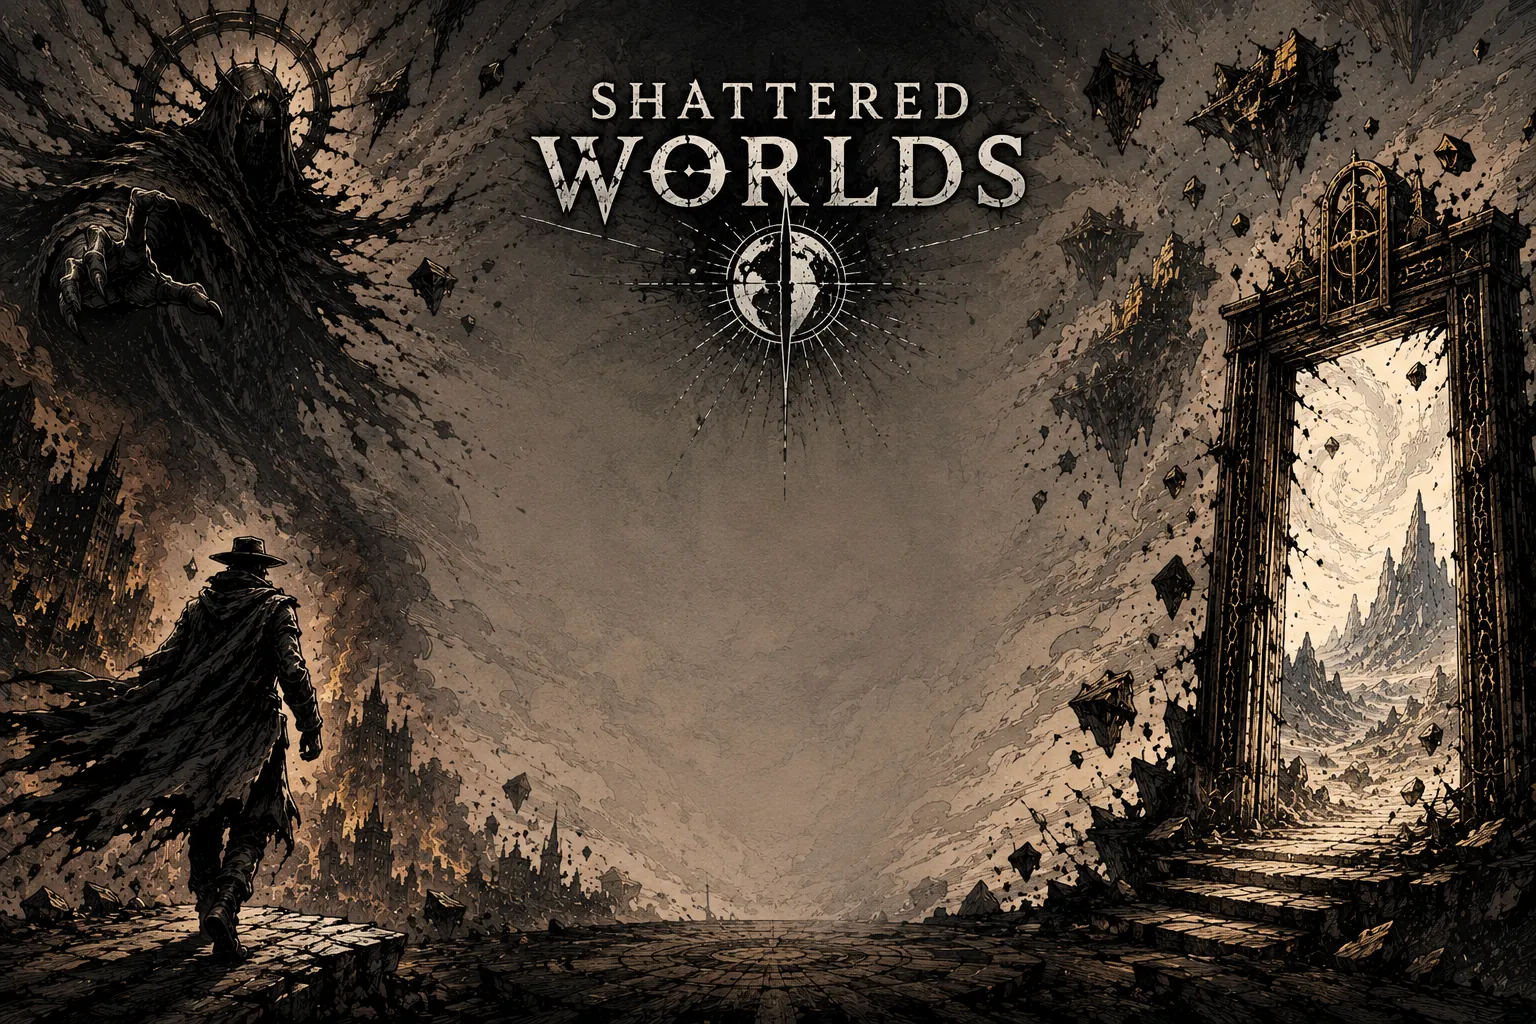
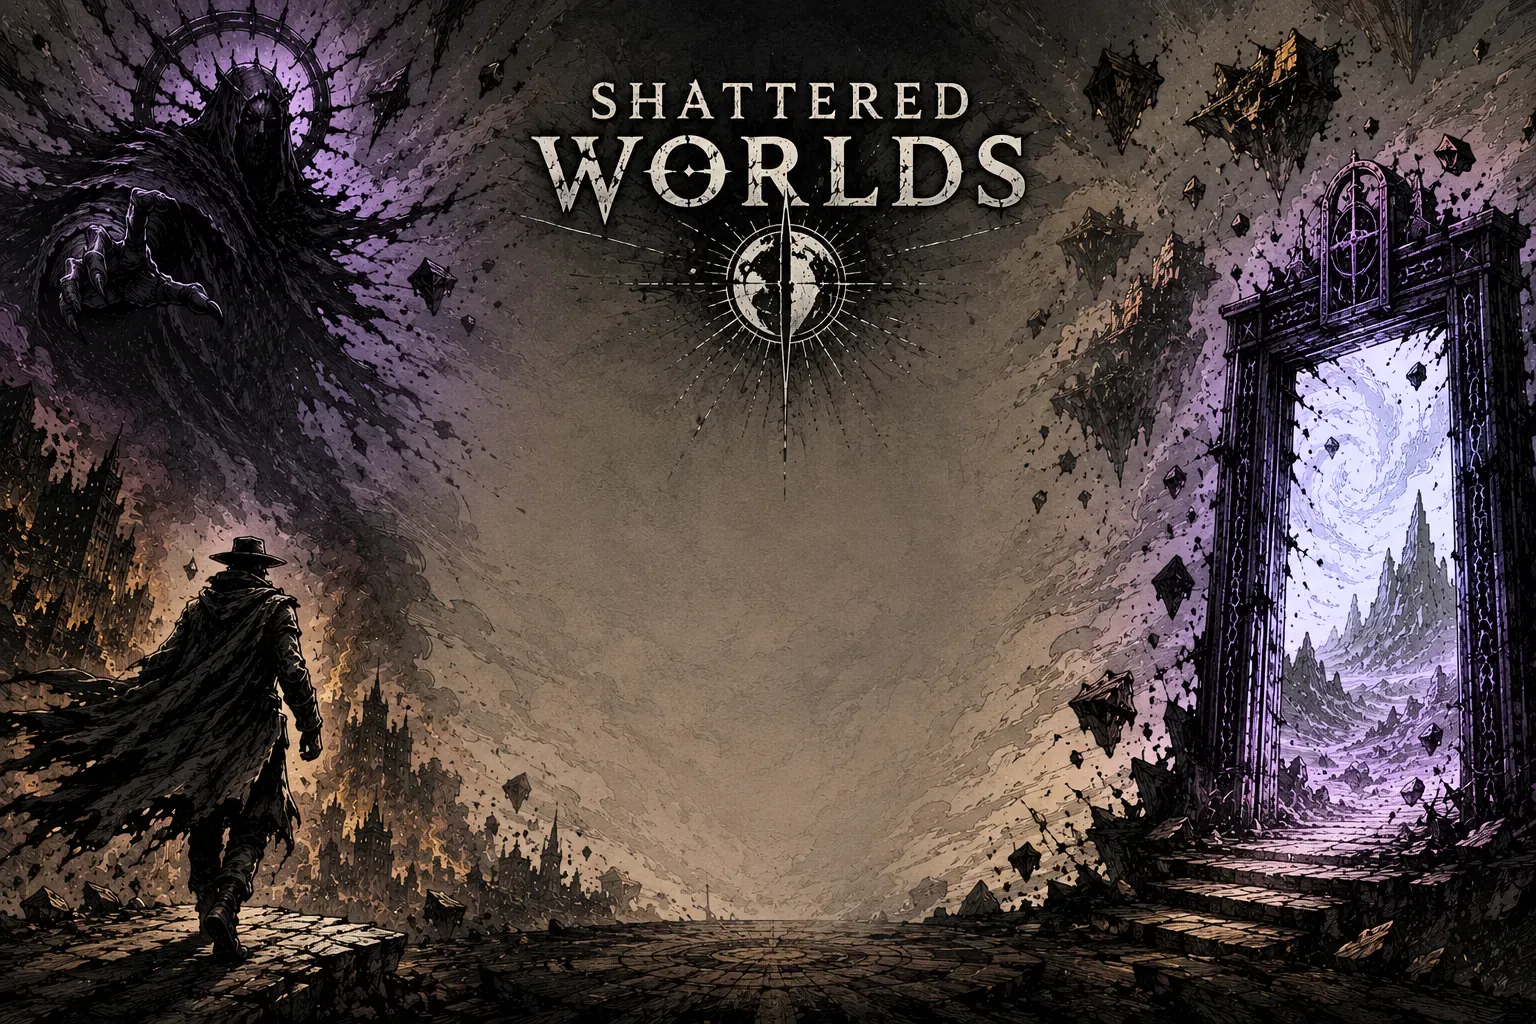
Refactor text styles: Replace hardcoded color values with TEXT constants across multiple components for consistency and maintainability.

diff --git a/src/game/view/presentation.ts b/src/game/view/presentation.ts
@@ -20,6 +20,41 @@ import type { HighlightKind } from '../interaction/highlight'
 export { CANVAS_W, CANVAS_H } from './layout'
 
 // ---------------------------------------------------------------------------
+// Text palette
+// ---------------------------------------------------------------------------
+
+// Text colors are theme-independent — all pass WCAG AA against the frame
+// backgrounds used by every current theme.
+export const TEXT = {
+  textLight: '#e8eaf0',
+  textMuted: '#b6c0d1',
+  textCost: '#ffcc44',
+  textKeyword: '#88ccff',
+  textDisabled: '#555577',
+  textPenalty: '#ff8888',
+  textReward: '#88ee88',
+  textHeld: '#ffaa66',
+  textDiscard: '#ffaa44',
+  textEnergy: '#ffeebb',
+  bgEnergy: 0x002244,
+  textHp: '#ff8888',
+  dimAlpha: 0.35,
+  textWorldTitle: '#d4c8e0',
+  textWorldTag: '#c178bc',
+  textWorldStory: '#b69fc7',
+  background: '#24221e',
+}
+
+export function getRealityPalette(
+  theme: VisualTheme,
+  index: keyof VisualTheme['realityPalette'],
+  defaultColor: string
+): string {
+  return theme.realityPalette[index] ?? defaultColor
+}
+
+
+// ---------------------------------------------------------------------------
 // Card texture selection
 // ---------------------------------------------------------------------------
 
@@ -44,26 +79,6 @@ export function selectCardFrontKey(
   // (generic) until per-player-world art ships.
   const theme = resolveTheme(card.sourceWorldId) // seam: use result when per-player-world art is defined
   return theme.worldCardfrontKey ?? 'cardfront'
-}
-
-// ---------------------------------------------------------------------------
-// Text palette
-// ---------------------------------------------------------------------------
-
-// Text colors are theme-independent — all pass WCAG AA against the frame
-// backgrounds used by every current theme.
-export const TEXT = {
-  textLight: '#e8eaf0',
-  textMuted: '#b6c0d1',
-  textCost: '#ffcc44',
-  textKeyword: '#88ccff',
-  textPenalty: '#ff8888',
-  textReward: '#88ee88',
-  textHeld: '#ffaa66',
-  textEnergy: '#ffeebb',
-  bgEnergy: 0x002244,
-  textHp: '#ff8888',
-  dimAlpha: 0.35,
 }
 
 // ---------------------------------------------------------------------------

diff --git a/src/game/scenes/TableScene.ts b/src/game/scenes/TableScene.ts
@@ -178,7 +178,7 @@ export class TableScene extends Phaser.Scene {
 
     const endTurnStyle = textStyle({
       fontSize: '16px',
-      color: getRealityPalette(this.theme_, 'text', '#88aaff'),
+      color: getRealityPalette(this.theme_, 'text', TEXT.textKeyword),
       fontStyle: 'bold',
     })
     this.endTurnBtn = new CommonButton(
@@ -192,7 +192,7 @@ export class TableScene extends Phaser.Scene {
 
     const cancelStyle = textStyle({
       fontSize: '13px',
-      color: getRealityPalette(this.theme_, 'cancel', '#ff8888'),
+      color: getRealityPalette(this.theme_, 'cancel', TEXT.textPenalty),
     })
     this.cancelBtn = new CommonButton(
       this,
@@ -212,7 +212,7 @@ export class TableScene extends Phaser.Scene {
     const confirmStyle = textStyle({
       fontSize: '13px',
       fontStyle: 'bold',
-      color: getRealityPalette(this.theme_, 'confirm', '#88ee88'),
+      color: getRealityPalette(this.theme_, 'confirm', TEXT.textReward),
     })
     this.confirmBtn = new CommonButton(
       this,
@@ -226,13 +226,13 @@ export class TableScene extends Phaser.Scene {
 
     this.winScreen = new EndScreenView(this, {
       title: 'YOU WIN',
-      titleColor: '#88ee88',
+      titleColor: TEXT.textReward,
       subtitle: 'You survived.',
     })
 
     this.lossScreen = new EndScreenView(this, {
       title: 'YOU LOSE',
-      titleColor: '#ff8888',
+      titleColor: TEXT.textPenalty,
       subtitle: 'You did not survive meeting the Walker.',
     })
 
@@ -262,7 +262,7 @@ export class TableScene extends Phaser.Scene {
 
     this.selectionHint = new CommonLabel(this, TABLE_LAYOUT.selectionHint.x, TABLE_LAYOUT.selectionHint.y, '', textStyle({
       fontSize: '12px',
-      color: getRealityPalette(this.theme_, 'text', '#9aa3b2'),
+      color: getRealityPalette(this.theme_, 'text', TEXT.textLight),
     })).setVisible(false)
 
     // Sits in a dedicated slot directly above selectionHint. selectionHint has
@@ -272,7 +272,7 @@ export class TableScene extends Phaser.Scene {
     // means this slot simply stays empty).
     this.previewSlot = new CommonLabel(this, TABLE_LAYOUT.previewSlot.x, TABLE_LAYOUT.previewSlot.y, '', textStyle({
       fontSize: '12px',
-      color: getRealityPalette(this.theme_, 'title', '#9aa3b2'),
+      color: getRealityPalette(this.theme_, 'title', TEXT.textLight),
     }))
     this.previewSlot.setVisible(false)
 

diff --git a/src/game/view/ModalChooserView.ts b/src/game/view/ModalChooserView.ts
@@ -6,7 +6,8 @@
 import Phaser from 'phaser'
 import { getRealityPalette } from './themes/theme'
 import type { VisualTheme } from './themes/theme'
-import { textStyle } from './presentation'
+import { textStyle, TEXT } from './presentation'
+import { TABLE_LAYOUT } from './layout'
 import { BranchLabel } from '../../core/view/branchLabels'
 
 export class ModalChooserView extends Phaser.GameObjects.Container {
@@ -19,6 +20,7 @@ export class ModalChooserView extends Phaser.GameObjects.Container {
   ) {
     super(scene, 450, 300)
     scene.add.existing(this)
+    this.setDepth(TABLE_LAYOUT.modalDepth)
 
     const bg = scene.add
       .nineslice(0, 0, 'text-back', undefined, 480, 240, 32, 32, 16, 16)
@@ -27,7 +29,7 @@ export class ModalChooserView extends Phaser.GameObjects.Container {
 
     const title = scene.add.text(0, -80, 'Choose an effect:', textStyle({
       fontSize: '16px',
-      color: getRealityPalette(theme, 'title', '#9aa3b2'),
+      color: getRealityPalette(theme, 'title', TEXT.textLight),
       fontStyle: 'bold',
     }))
     title.setOrigin(0.5, 0.5)
@@ -37,8 +39,8 @@ export class ModalChooserView extends Phaser.GameObjects.Container {
       const btn = scene.add.text(0, -30 + idx * 60, branch.label, textStyle({
         fontSize: '14px',
         color: branch.isLegal
-          ? getRealityPalette(theme, 'text', '#88aaff')
-          : getRealityPalette(theme, 'disabled', '#555577'),
+          ? getRealityPalette(theme, 'text', TEXT.textLight)
+          : getRealityPalette(theme, 'disabled', TEXT.textDisabled),
         fontStyle: 'bold',
       }))
       btn.setOrigin(0.5, 0.5)
@@ -51,7 +53,7 @@ export class ModalChooserView extends Phaser.GameObjects.Container {
 
     const cancelBtn = scene.add.text(0, 80, '[ Cancel ]', textStyle({
       fontSize: '13px',
-      color: getRealityPalette(theme, 'cancel', '#ff8888'),
+      color: getRealityPalette(theme, 'cancel', TEXT.textPenalty),
     }))
     cancelBtn.setOrigin(0.5, 0.5)
     cancelBtn.setInteractive({ useHandCursor: true })

diff --git a/src/game/scenes/WorldSelectScene.ts b/src/game/scenes/WorldSelectScene.ts
@@ -4,7 +4,7 @@ import { assetManifest } from '../data/assetManifest'
 import { worldManifest } from '../../data/worldManifest'
 import { worldDisplayManifest, type WorldDisplayData } from '../../data/worldDisplayManifest'
 import { selectTheme } from '../view/themes/themeManifest'
-import { textStyle } from '../view/presentation'
+import { textStyle, TEXT } from '../view/presentation'
 import { CANVAS_W, CANVAS_H, WORLD_SELECT_LAYOUT } from '../view/layout'
 
 const CARD_W = WORLD_SELECT_LAYOUT.cardWidth
@@ -32,7 +32,7 @@ export class WorldSelectScene extends Phaser.Scene {
 
     // subtitle only — logotype is in the image
     this.add.text(CANVAS_W / 2, SUBTITLE_Y, 'Choose your shard',
-      textStyle({ fontSize: '13px', color: '#9aa3b2' }),
+      textStyle({ fontSize: '20px', fontStyle: 'italic', color: TEXT.textWorldTag }),
     ).setOrigin(0.5, 0.5)
 
     // world cards
@@ -103,7 +103,7 @@ export class WorldSelectScene extends Phaser.Scene {
 
     // content
     const nameText = this.add.text(0, -CARD_H / 2 + WORLD_SELECT_LAYOUT.nameY, display.name,
-      textStyle({ fontSize: '17px', color: '#d4c8e0', fontStyle: 'bold', align: 'center', wordWrap: { width: CARD_W - WORLD_SELECT_LAYOUT.textPadding } }),
+      textStyle({ fontSize: '17px', color: TEXT.textWorldTitle, fontStyle: 'bold', align: 'center', wordWrap: { width: CARD_W - WORLD_SELECT_LAYOUT.textPadding } }),
     ).setOrigin(0.5, 0)
 
     const tagLineY = Math.max(
@@ -111,7 +111,7 @@ export class WorldSelectScene extends Phaser.Scene {
       nameText.y + nameText.height + WORLD_SELECT_LAYOUT.textGap,
     )
     const tagText = this.add.text(0, tagLineY, display.tagline,
-      textStyle({ fontSize: '12px', color: '#c178bc', fontStyle: 'italic', align: 'center', wordWrap: { width: CARD_W - WORLD_SELECT_LAYOUT.textPadding } }),
+      textStyle({ fontSize: '12px', color: TEXT.textWorldTag, fontStyle: 'italic', align: 'center', wordWrap: { width: CARD_W - WORLD_SELECT_LAYOUT.textPadding } }),
     ).setOrigin(0.5, 0)
 
     const storyLineY = Math.max(
@@ -119,7 +119,7 @@ export class WorldSelectScene extends Phaser.Scene {
       tagText.y + tagText.height + WORLD_SELECT_LAYOUT.textGap,
     )
     const storyText = this.add.text(0, storyLineY, display.story,
-      textStyle({ fontSize: '12px', color: '#b69fc7', align: 'center', wordWrap: { width: CARD_W - WORLD_SELECT_LAYOUT.textPadding } }),
+      textStyle({ fontSize: '12px', color: TEXT.textWorldStory, align: 'center', wordWrap: { width: CARD_W - WORLD_SELECT_LAYOUT.textPadding } }),
     ).setOrigin(0.5, 0)
 
     container.add([bg, border, nameText, tagText, storyText])

diff --git a/src/game/tests/theme.test.ts b/src/game/tests/theme.test.ts
@@ -7,7 +7,9 @@ describe('selectTheme', () => {
   it('returns zombie-big-box theme for that worldId', () => {
     const theme = selectTheme('zombie-big-box')
     expect(theme.worldId).toBe('zombie-big-box')
-    expect(theme.intrusionHue).toBe('#9bff6a')
+    expect(theme.intrusionHue).toBe(ZOMBIE_BIG_BOX_THEME.intrusionHue)
+    expect(theme.backdrop).toEqual(ZOMBIE_BIG_BOX_THEME.backdrop)
+    expect(theme.frameStyle).toEqual(ZOMBIE_BIG_BOX_THEME.frameStyle)
   })
 
   it('returns default (starter) for unknown worldId', () => {

diff --git a/src/game/view/EndScreenView.ts b/src/game/view/EndScreenView.ts
@@ -1,5 +1,5 @@
 import Phaser from 'phaser'
-import { textStyle } from './presentation'
+import { textStyle, TEXT } from './presentation'
 import { CANVAS_W, CANVAS_H } from './layout'
 
 /**
@@ -34,7 +34,7 @@ export class EndScreenView extends Phaser.GameObjects.Container {
 
     const sub = scene.add.text(0, 50, config.subtitle, textStyle({
       fontSize: '20px',
-      color: '#9aa3b2',
+      color: TEXT.textLight
     }))
     sub.setOrigin(0.5, 0.5)
     this.add(sub)

diff --git a/src/game/view/PileLayer.ts b/src/game/view/PileLayer.ts
@@ -9,7 +9,7 @@
  * every drawAll().
  */
 import Phaser from 'phaser'
-import { textStyle } from './presentation'
+import { textStyle, TEXT } from './presentation'
 import { CommonLabel } from './components'
 import { PILE_LAYOUT } from './layout'
 
@@ -69,7 +69,7 @@ export class PileLayer {
     // Show count text below the stack
     const label = new CommonLabel(scene, 0, PILE_LAYOUT.labelY, `${str}: ${count}`, textStyle({
       fontSize: '10px',
-      color: '#b6c0d1',
+      color: TEXT.textMuted,
     }))
     container.add(label)
   }

diff --git a/src/game/view/layout.ts b/src/game/view/layout.ts
@@ -24,6 +24,7 @@ export const TABLE_LAYOUT = {
   cardDepth: 100,
   cardHoverDepth: 200,
   connectorDepth: 500,
+  modalDepth: 1000,
   selectionHint: { x: CANVAS_W / 2, y: 578 },
   previewSlot: { x: CANVAS_W / 2, y: 550 },
   buttons: {
@@ -68,7 +69,7 @@ export const WORLD_SELECT_LAYOUT = {
   cardHeight: 350,
   cardGap: 30,
   cardY: 390,
-  subtitleY: 555,
+  subtitleY: CANVAS_H - 20,
   hoverScale: 1.15,
   nameY: 30,
   tagMinY: 60,

diff --git a/src/game/view/CardView.ts b/src/game/view/CardView.ts
@@ -292,7 +292,7 @@ export class CardView extends Phaser.GameObjects.Container {
       if (worldCard.discardable) {
         addCardText(scene, this, 0, CARD_H / 2 - 22, 'click to discard', {
           fontSize: '9px',
-          color: '#ffaa44',
+          color: TEXT.textDiscard,
           bold: true,
           originY: 0,
           background: 0x000000,